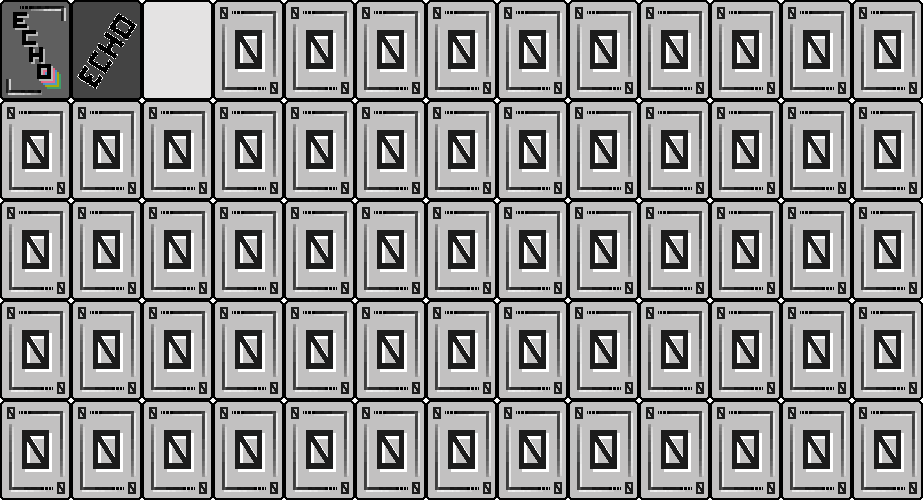
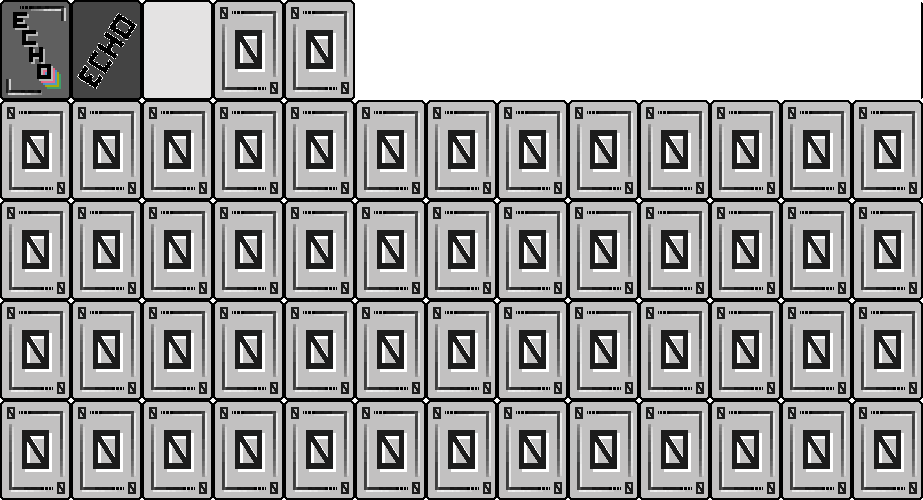
Added special card row to sprite map ; fixed .png loading issue ; Working on Card obj display funcion

Changed region(s): [[0.364, 0.0, 1.0, 0.21]]

diff --git a/src/display.js b/src/display.js
@@ -1,5 +1,10 @@
-var COLORS = ["red", "blue", "green", "yellow"];
-var NAMES = [
+var CARD_COLORS = ["red", "blue", "green", "yellow"];
+var CARD_NAMES = [
+  "back1",
+  "back2",
+  "blank",
+  "wild",
+  "wild4",
   "0",
   "1",
   "2",
@@ -27,9 +32,24 @@ export async function loadSpriteBoard(spriteBoardImgPath, numRows, numCols) {
       let spriteWidth = spriteBoard.width / cols;
       let spriteHeight = spriteBoard.height / rows;
       let n = 0;
-      for (let i = 0; i < rows; i++) {
+      //adds the first row of special sprites to the map
+      for (let k = 0; k < 5; k++) {
+        let name = `${CARD_NAMES[k]}`;
+        let x = k * spriteWidth;
+        let y = 0;
+        spriteMap[name + "_" + n] = {
+          spriteBoard,
+          x,
+          y,
+          spriteWidth,
+          spriteHeight,
+        };
+        n++;
+      }
+      //adds the rest of the sprites to the map
+      for (let i = 1; i < rows; i++) {
         for (let j = 0; j < cols; j++) {
-          let name = `${COLORS[i]}${NAMES[j]}`;
+          let name = `${CARD_COLORS[i]}${CARD_NAMES[j]}`;
           let x = j * spriteWidth;
           let y = i * spriteHeight;
           spriteMap[name + "_" + n] = {
@@ -59,6 +79,7 @@ export const getCanvasCtx = () => {
 
 export function drawCard(Card) {
   const ctx = getCanvasCtx();
+  //TODO: I need to get this function to have access to the Sprite Map in order to be able to draw a specific card.  I also need a way to associate an instance of a Card object with its sprite on the board.
   ctx.drawImage();
 }
 

diff --git a/src/index.js b/src/index.js
@@ -1,11 +1,11 @@
-import { Game } from "./components/game.js";
+import { Game } from "./components/Game.js";
 import { loadSpriteBoard } from "./display.js";
 
-var cardSpriteBoardImgPath = "./assets/echo-cards-test.png";
+var cardSpriteBoardImgPath = "src/assets/echo-cards-test.png";
 
 console.log("Loading Sprite Board...");
 try {
-  const spriteMap = await loadSpriteBoard(cardSpriteBoardImgPath, 4, 13);
+  const spriteMap = await loadSpriteBoard(cardSpriteBoardImgPath, 5, 13);
   console.log("Sprite Board:");
   console.log(spriteMap);
 } catch (error) {

diff --git a/styles/style.css b/styles/style.css
@@ -1,3 +1,4 @@
 canvas {
-  border: 4px solid rgb(32, 32, 32);
+  border: 4px solid rgb(250, 0, 55);
+  background-color: rgb(76, 76, 76);
 }